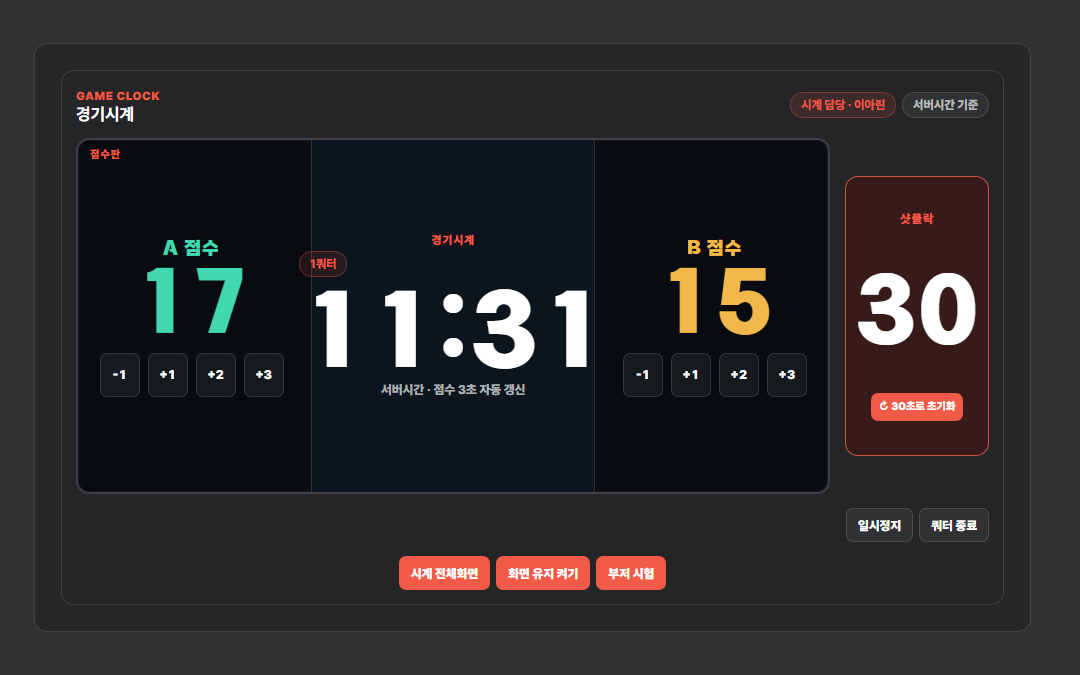
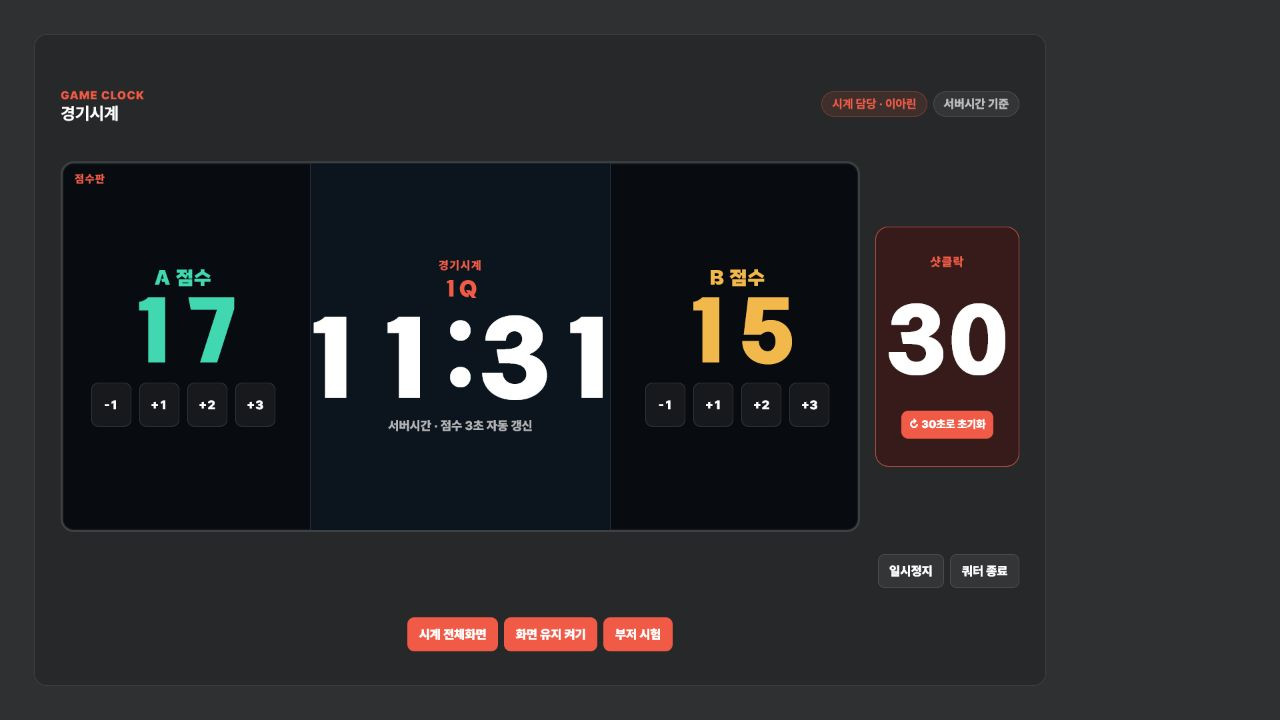
fix(guide): compact mobile chapters

diff --git a/src/pages/GettingStarted.jsx b/src/pages/GettingStarted.jsx
@@ -7,6 +7,7 @@ import {
   CheckCircle2,
   ClipboardCheck,
   Clock3,
+  ChevronDown,
   FlaskConical,
   Gauge,
   MapPin,
@@ -172,7 +173,7 @@ const GUIDE_CHAPTERS = [
     eyebrow: "04 · LIVE",
     title: "심판·경기시계 담당자·선수가 역할을 나눕니다.",
     lead: "심판 유무와 경기시계 사용 여부에 따라 점수·기록·최종 승인 권한이 분리됩니다.",
-    image: "/assets/guide/live-clock.jpg?v=20260728-guide-r2",
+    image: "/assets/guide/live-clock.jpg?v=20260728-guide-r3",
     imageAlt: "A/B 점수판과 30초 샷클락이 함께 열린 가로형 BOXTIER 경기시계",
     caption: "지정된 담당자 화면에서 A/B 점수와 경기시간을 조작하고 샷클락을 초기화합니다.",
     steps: [
@@ -655,6 +656,7 @@ export default function GettingStarted({ app }) {
   const [searchParams] = useSearchParams();
   const [homeGuideCardSavePending, setHomeGuideCardSavePending] = useState(false);
   const [homeGuideCardSaveStatus, setHomeGuideCardSaveStatus] = useState("");
+  const [chapterMenuOpen, setChapterMenuOpen] = useState(false);
   const chapterTitleRef = useRef(null);
   const requestedChapterId = searchParams.get("chapter") ?? GUIDE_CHAPTER_IDS[0];
   const requestedChapterIndex = GUIDE_CHAPTER_IDS.indexOf(requestedChapterId);
@@ -667,6 +669,7 @@ export default function GettingStarted({ app }) {
   const homeGuideCardVisible = isHomeGuideCardVisible(app.state.settings);
 
   useEffect(() => {
+    setChapterMenuOpen(false);
     window.scrollTo({ top: 0, behavior: "auto" });
     if (previousChapterIdRef.current !== chapter.id) {
       chapterTitleRef.current?.focus({ preventScroll: true });
@@ -707,18 +710,36 @@ export default function GettingStarted({ app }) {
         <span>ALPHA GUIDE · {GUIDE_CHAPTERS.length}단계</span>
       </div>
 
-      <nav className="getting-started-chapter-nav ui-panel" aria-label="사용 설명 목차">
-        {GUIDE_CHAPTERS.map((item, index) => (
-          <Link
-            key={item.id}
-            className={item.id === chapter.id ? "is-active" : ""}
-            to={`?chapter=${item.id}`}
-            aria-current={item.id === chapter.id ? "page" : undefined}
-          >
-            <span aria-hidden="true">{index + 1}</span>
-            {item.navLabel}
-          </Link>
-        ))}
+      <nav
+        className={`getting-started-chapter-nav ui-panel${chapterMenuOpen ? " is-open" : ""}`}
+        aria-label="사용 설명 목차"
+      >
+        <button
+          className="getting-started-chapter-nav__toggle"
+          type="button"
+          aria-expanded={chapterMenuOpen}
+          aria-controls="getting-started-chapter-links"
+          onClick={() => setChapterMenuOpen((open) => !open)}
+        >
+          <span>{activeIndex + 1} / {GUIDE_CHAPTERS.length}</span>
+          <strong>{chapter.navLabel}</strong>
+          <small>단계 선택</small>
+          <ChevronDown size={17} aria-hidden="true" />
+        </button>
+        <div className="getting-started-chapter-nav__links" id="getting-started-chapter-links">
+          {GUIDE_CHAPTERS.map((item, index) => (
+            <Link
+              key={item.id}
+              className={item.id === chapter.id ? "is-active" : ""}
+              to={`?chapter=${item.id}`}
+              aria-current={item.id === chapter.id ? "page" : undefined}
+              onClick={() => setChapterMenuOpen(false)}
+            >
+              <span aria-hidden="true">{index + 1}</span>
+              {item.navLabel}
+            </Link>
+          ))}
+        </div>
       </nav>
 
       <Card as="article" className="getting-started-chapter">

diff --git a/src/styles/getting-started.css b/src/styles/getting-started.css
@@ -141,12 +141,19 @@
 
 .getting-started-chapter-nav {
   --ui-panel-padding: var(--space-3);
+}
+
+.getting-started-chapter-nav__toggle {
+  display: none;
+}
+
+.getting-started-chapter-nav__links {
   display: grid;
   grid-template-columns: repeat(6, minmax(0, 1fr));
   gap: var(--space-3);
 }
 
-.getting-started-chapter-nav a {
+.getting-started-chapter-nav__links a {
   display: inline-flex;
   gap: var(--space-3);
   align-items: center;
@@ -164,23 +171,23 @@
   border-radius: var(--ui-button-radius);
 }
 
-.getting-started-chapter-nav a:hover {
+.getting-started-chapter-nav__links a:hover {
   color: var(--rb-text);
   background: color-mix(in srgb, var(--rb-text) 5%, transparent);
 }
 
-.getting-started-chapter-nav a:focus-visible {
+.getting-started-chapter-nav__links a:focus-visible {
   outline: 2px solid var(--rb-orange-2);
   outline-offset: 1px;
 }
 
-.getting-started-chapter-nav a.is-active {
+.getting-started-chapter-nav__links a.is-active {
   color: #151515;
   background: var(--rb-orange);
   border-color: transparent;
 }
 
-.getting-started-chapter-nav a > span {
+.getting-started-chapter-nav__links a > span {
   display: grid;
   flex: 0 0 22px;
   width: 22px;
@@ -740,17 +747,70 @@
   }
 
   .getting-started-chapter-nav {
-    grid-template-columns: repeat(2, minmax(0, 1fr));
-    gap: var(--space-2);
+    --ui-panel-padding: var(--space-2);
   }
 
-  .getting-started-chapter-nav a {
+  .getting-started-chapter-nav__toggle {
+    display: grid;
+    width: 100%;
+    min-height: 44px;
+    padding: var(--space-2) var(--space-4);
+    color: var(--rb-text);
+    text-align: left;
+    background: transparent;
+    border: 0;
+    border-radius: var(--ui-button-radius);
+    grid-template-columns: auto minmax(0, 1fr) auto auto;
+    gap: var(--space-3);
+    align-items: center;
+  }
+
+  .getting-started-chapter-nav__toggle > span,
+  .getting-started-chapter-nav__toggle > small {
+    color: var(--rb-muted);
+    font-size: 0.68rem;
+    font-weight: 900;
+    white-space: nowrap;
+  }
+
+  .getting-started-chapter-nav__toggle > strong {
+    overflow: hidden;
+    font-size: 0.82rem;
+    text-overflow: ellipsis;
+    white-space: nowrap;
+  }
+
+  .getting-started-chapter-nav__toggle > svg {
+    transition: transform 160ms ease;
+  }
+
+  .getting-started-chapter-nav__toggle:focus-visible {
+    outline: 2px solid var(--rb-orange-2);
+    outline-offset: 1px;
+  }
+
+  .getting-started-chapter-nav__links {
+    display: none;
+    grid-template-columns: repeat(2, minmax(0, 1fr));
+    gap: var(--space-2);
+    padding-top: var(--space-2);
+  }
+
+  .getting-started-chapter-nav.is-open .getting-started-chapter-nav__links {
+    display: grid;
+  }
+
+  .getting-started-chapter-nav.is-open .getting-started-chapter-nav__toggle > svg {
+    transform: rotate(180deg);
+  }
+
+  .getting-started-chapter-nav__links a {
     gap: var(--space-2);
     padding-inline: var(--space-2);
     font-size: 0.72rem;
   }
 
-  .getting-started-chapter-nav a > span {
+  .getting-started-chapter-nav__links a > span {
     display: none;
   }
 
@@ -820,11 +880,7 @@
     letter-spacing: 0.04em;
   }
 
-  .getting-started-chapter-nav {
-    --ui-panel-padding: var(--space-2);
-  }
-
-  .getting-started-chapter-nav a {
+  .getting-started-chapter-nav__links a {
     min-height: var(--ui-button-height-sm);
     font-size: 0.68rem;
   }

diff --git a/src/components/match/MatchClockPanel.jsx b/src/components/match/MatchClockPanel.jsx
@@ -460,6 +460,9 @@ export default function MatchClockPanel({
   const isPending = liveClock?.status === "pending";
   const isEnded = liveClock?.status === "ended";
   const isBreak = liveClock?.status === "break";
+  const periodDisplayLabel = Number(liveClock?.overtimeCount || 0) > 0
+    ? `OT${liveClock.overtimeCount}`
+    : `${liveClock?.currentPeriod || 1}Q`;
   const isRunning = liveClock?.status === "running";
   const hasRemainingPeriodTime = Number(liveClock?.periodRemainingMs || 0) > 0;
   const regulationEnded = isBreak && liveClock.currentPeriod >= liveClock.expectedPeriodCount;
@@ -866,7 +869,7 @@ export default function MatchClockPanel({
               ) : null}
               <div className="ui-match-clock-main-time">
                 <span className="ui-match-clock-main-time-label">경기시계</span>
-                <Badge tone="orange">{getMatchClockPeriodLabel(liveClock)}</Badge>
+                <strong className="ui-match-clock-period">{periodDisplayLabel}</strong>
                 <time>{formatClockTime(liveClock.periodRemainingMs, { tenths: true })}</time>
                 <small>{scoreboardEnabled ? "서버시간 · 점수 3초 자동 갱신" : "서버시간 기준"}</small>
               </div>

diff --git a/src/styles/match-clock.css b/src/styles/match-clock.css
@@ -293,18 +293,29 @@
 }
 
 .ui-match-clock-main-time {
-  gap: 4px;
+  gap: clamp(6px, 0.8cqi, 12px);
   color: var(--rb-text);
   background: var(--scoreboard-2);
   border-inline: 1px solid var(--rb-line);
 }
 
 .ui-match-clock-main-time-label {
+  justify-self: center;
   color: var(--rb-orange);
   font-size: 0.72rem;
   font-weight: 900;
   letter-spacing: 0.08em;
   line-height: 1;
+  white-space: nowrap;
+}
+
+.ui-match-clock-period {
+  justify-self: center;
+  color: var(--rb-orange);
+  font-family: var(--sports-display-font);
+  font-size: clamp(1.2rem, 2.2cqi, 1.7rem);
+  line-height: 0.9;
+  letter-spacing: 0.04em;
 }
 
 .ui-match-clock-scoreboard-time-only .ui-match-clock-main-time {
@@ -646,6 +657,10 @@
   font-size: clamp(4.75rem, 14cqi, 10rem);
 }
 
+.ui-match-clock-panel-focus .ui-match-clock-period {
+  font-size: clamp(1.5rem, 3cqi, 2.5rem);
+}
+
 .ui-match-clock-panel-focus .ui-match-clock-scoreboard-time-only .ui-match-clock-main-time time {
   font-size: clamp(5.5rem, 18cqi, 12rem);
 }
@@ -817,6 +832,10 @@
 
   .ui-match-clock-main-time time {
     font-size: clamp(1.85rem, 10vw, 3.2rem);
+  }
+
+  .ui-match-clock-period {
+    font-size: clamp(1.1rem, 5vw, 1.5rem);
   }
 
   .ui-match-shot-clock {

diff --git a/docs/design-system.md b/docs/design-system.md
@@ -2060,9 +2060,9 @@ UI 수정 전:
 1. 홈의 `처음 사용하시나요?` 카드는 검색과 `매칭 만들기`·`경기 기록하기` 2열 CTA를 대체하거나 분리하지 않는다. 랭크 hero 다음의 compact 진입 카드로 표시하고 기존 좌·우 rail의 desktop/mobile 순서를 유지한다.
 2. 사용 설명은 `/app/guide?chapter=start|matching|attendance|live|records|tier|teams|courts|tournaments|profile|settings|terms|practice`의 13개 챕터를 사용한다. 한 번에 활성 챕터 하나만 표시하고 상단 목차와 이전·다음으로 이동한다. 잘못된 chapter 값은 시작 챕터로 안전하게 표시한다.
 3. 각 챕터는 `시작·매칭·QR 출석·경기 진행·기록·티어·팀·구장·대회·프로필·설정·용어·직접 연습` 순서를 유지한다. 기능 설명은 실제 사용자 action과 서버 권한을 기준으로 4개의 핵심 단계와 주의사항을 제공한다. QR 출석은 전용 챕터에서 `초대 수락 → 사전 QR 출석 → 미출석 확정 → 지각 QR 후보 등록 → 실제 교체 출전`을 분리해 안내한다. 시계·샷클락 같은 보조 기능은 해당 역할 설명 안에 둔다. 대표 캡처가 없는 챕터는 존재하지 않는 자산을 만들지 않고 현재 메뉴의 기능 묶음을 평면 미리보기로 표시한다.
-4. 캡처 이미지는 설명 대상 UI와 같은 챕터에 두고 구체적인 대체 텍스트와 설명문을 제공한다. QR 출석 캡처는 실제 공용 출석판의 QR과 A/B 출석 상태가 함께 보이는 상태를 사용한다. 진행 챕터의 경기시계 캡처는 실제 공용 시계에서 A/B 기록 점수판과 설정된 샷클락이 함께 보이는 상태를 사용한다. 연습 챕터는 낡은 캡처 복제 대신 실제 공용 모듈을 여는 진행 미리보기와 `연습 경기 시작` CTA를 사용한다. 준비 중 기능, 자동화되지 않은 운영, 기기별 베타를 현재 보장 기능처럼 표시하지 않는다.
+4. 캡처 이미지는 설명 대상 UI와 같은 챕터에 두고 구체적인 대체 텍스트와 설명문을 제공한다. QR 출석 캡처는 실제 공용 출석판의 QR과 A/B 출석 상태가 함께 보이는 상태를 사용한다. 진행 챕터의 경기시계 캡처는 실제 공용 시계에서 A/B 기록 점수판과 설정된 샷클락이 함께 보이는 상태를 사용한다. 쿼터는 시간 숫자에 걸친 별도 뱃지로 표시하지 않고 시간 위 중앙에 `1Q`, 연장은 `OT1`처럼 큰 스포츠 라벨로 표시한다. 연습 챕터는 낡은 캡처 복제 대신 실제 공용 모듈을 여는 진행 미리보기와 `연습 경기 시작` CTA를 사용한다. 준비 중 기능, 자동화되지 않은 운영, 기기별 베타를 현재 보장 기능처럼 표시하지 않는다.
 5. 온보딩 화면은 공용 `Card`, `Badge`, `ui-panel`, `.ui-action-row`, button primitive와 기존 dark/light 토큰을 사용한다. 본문·설명은 `--font-body`, 단계 숫자만 `--sports-display-font`를 사용한다.
-6. 데스크톱과 모바일은 같은 내용 순서를 유지한다. `320px`, `375px`, `768px`, `1024px`, `1440px`에서 가로 overflow가 없어야 하며 액션은 임의로 세로 고정하지 않고 실제 공간이 부족할 때만 공용 규칙으로 접는다. 홈의 기존 검색 CTA 2열 규칙은 바꾸지 않는다.
+6. 데스크톱과 모바일은 같은 내용 순서를 유지한다. `320px`, `375px`, `768px`, `1024px`, `1440px`에서 가로 overflow가 없어야 하며 액션은 임의로 세로 고정하지 않고 실제 공간이 부족할 때만 공용 규칙으로 접는다. 홈의 기존 검색 CTA 2열 규칙은 바꾸지 않는다. 모바일 상단 목차는 13개 단계를 기본 펼침하지 않고 `현재 순서 / 전체 순서 · 현재 단계 · 단계 선택` 한 줄로 축약하며, 사용자가 열었을 때만 전체 단계 링크를 표시한다.
 7. 설정의 홈 안내 카드 옵션과 사용 설명 마지막 장의 `홈에서 사용 설명 안 보기` control은 같은 `showHomeGuideCard` 값을 사용한다. 설정 화면에서는 표시 설정 하단 저장 버튼으로 저장하고, 사용 설명 마지막 장에서는 해당 control action으로 저장한다. 이 값은 홈 진입 카드의 표시만 바꾸며 사용 설명 route와 연습 경기는 숨기거나 비활성화하지 않는다. 마지막 `완료` action은 자동으로 이 값을 바꾸지 않는다.
 8. 연습 진행 안내는 공용 방 모달 안의 `contextPanel`로 표시한다. 새 방 스킨이나 중첩 모달 테두리를 만들지 않고, 모바일에서는 단계 표시와 보조 action이 가로 overflow 없이 자연스럽게 접혀야 한다. 픽업 출석 보조 action은 출석만 채우고 `팀 나누기 → 배정 확정`은 공용 작업판에서 사용자가 직접 실행하도록 안내한다.
 9. 연습 경기의 `현재 역할 화면 · 한 기기 체험` 선택은 실제 방장·심판·출전 선수·후보 선수·경기시계 담당자 화면을 한 기기에서 바꾸어 보는 보조 control이다. 폐기된 사이드 기록자·기록 후보·takeover 역할은 안내하지 않는다. 현재 경기시계 담당은 선택 option에 `시계 담당`으로 표시한다. 역할을 바꾸면 공용 경기방을 즉시 다시 읽어 새 권한을 반영하며, 시계 담당을 넘긴 뒤에는 새 담당 선수 화면을 직접 선택하기 전까지 기존 화면을 읽기 전용으로 유지한다.
